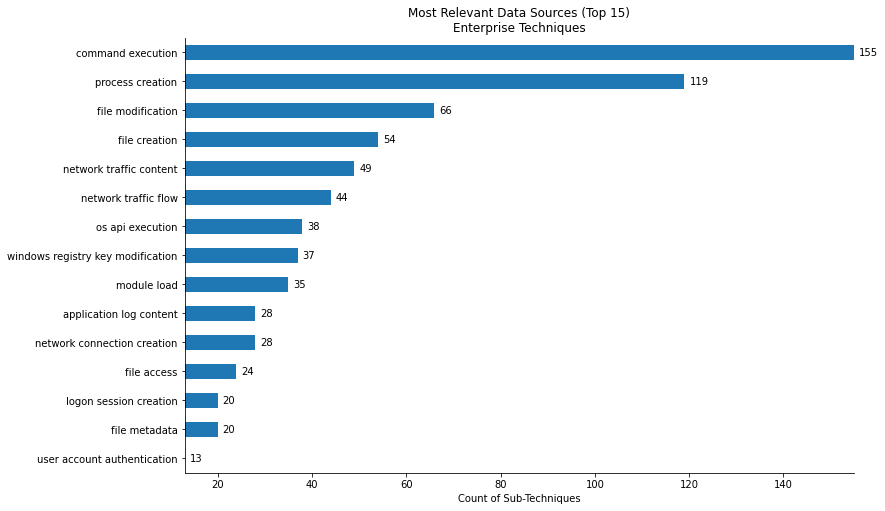
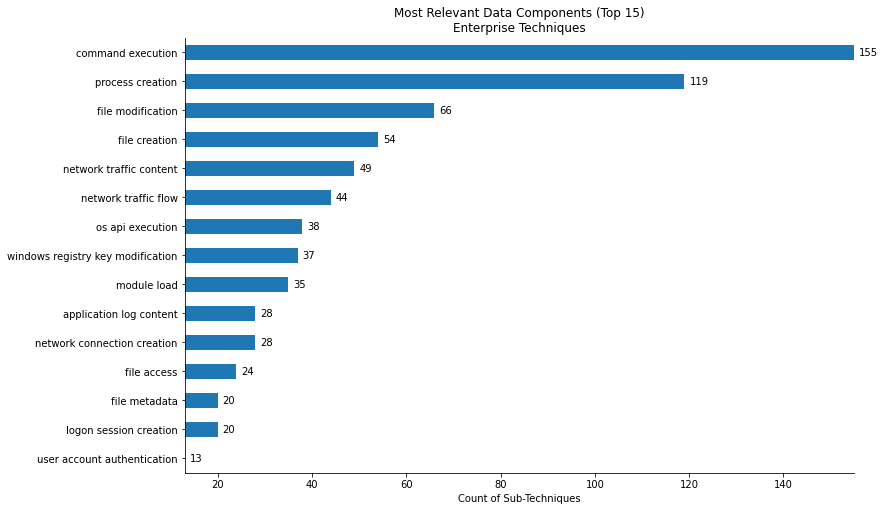
Update documentation

Changed region(s): [[0.4271, 0.0, 0.7322, 0.0587], [0.061, 0.8219, 0.2136, 0.8513], [0.061, 0.7632, 0.2136, 0.7926]]

diff --git a/dm/mitre_attack/attack_techniques_to_events.html b/dm/mitre_attack/attack_techniques_to_events.html
@@ -796,7 +796,7 @@
 <div class="cell_input docutils container">
 <div class="highlight-ipython3 notranslate"><div class="highlight"><pre><span></span><span class="n">enterprise_sub</span> <span class="o">=</span> <span class="n">mapping</span><span class="p">[</span><span class="n">mapping</span><span class="p">[</span><span class="s1">&#39;x_mitre_is_subtechnique&#39;</span><span class="p">]</span> <span class="o">==</span> <span class="kc">True</span><span class="p">][[</span><span class="s1">&#39;technique_id&#39;</span><span class="p">,</span><span class="s1">&#39;data_source&#39;</span><span class="p">,</span><span class="s1">&#39;data_component&#39;</span><span class="p">]]</span><span class="o">.</span><span class="n">drop_duplicates</span><span class="p">()</span>
 <span class="n">top15_data_source</span> <span class="o">=</span> <span class="n">enterprise_sub</span><span class="p">[</span><span class="s1">&#39;data_component&#39;</span><span class="p">]</span><span class="o">.</span><span class="n">value_counts</span><span class="p">()</span><span class="o">.</span><span class="n">nlargest</span><span class="p">(</span><span class="mi">15</span><span class="p">)</span><span class="o">.</span><span class="n">to_frame</span><span class="p">()</span><span class="o">.</span><span class="n">reset_index</span><span class="p">()</span>
-<span class="n">title</span> <span class="o">=</span> <span class="s1">&#39;Most Relevant Data Sources (Top 15)</span><span class="se">\n</span><span class="s1">Enterprise Techniques&#39;</span>
+<span class="n">title</span> <span class="o">=</span> <span class="s1">&#39;Most Relevant Data Components (Top 15)</span><span class="se">\n</span><span class="s1">Enterprise Techniques&#39;</span>
 <span class="n">vis</span><span class="o">.</span><span class="n">barh_chart</span><span class="p">(</span><span class="n">top15_data_source</span><span class="p">,</span><span class="s1">&#39;data_component&#39;</span><span class="p">,</span><span class="s1">&#39;index&#39;</span><span class="p">,</span><span class="n">title</span><span class="p">,</span> <span class="n">xlabel</span> <span class="o">=</span> <span class="s1">&#39;Count of Sub-Techniques&#39;</span><span class="p">)</span>
 </pre></div>
 </div>
